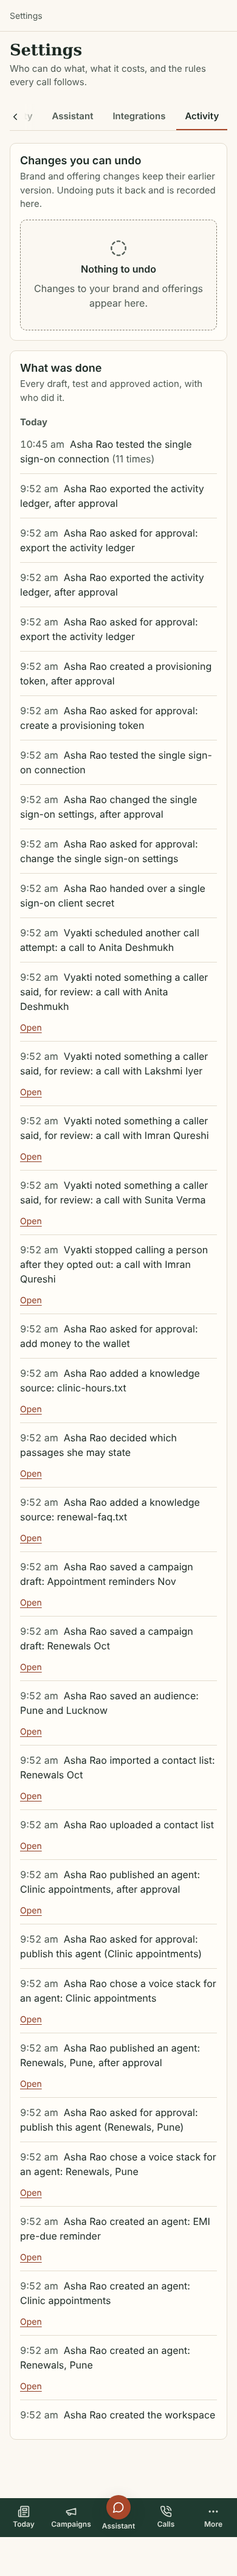
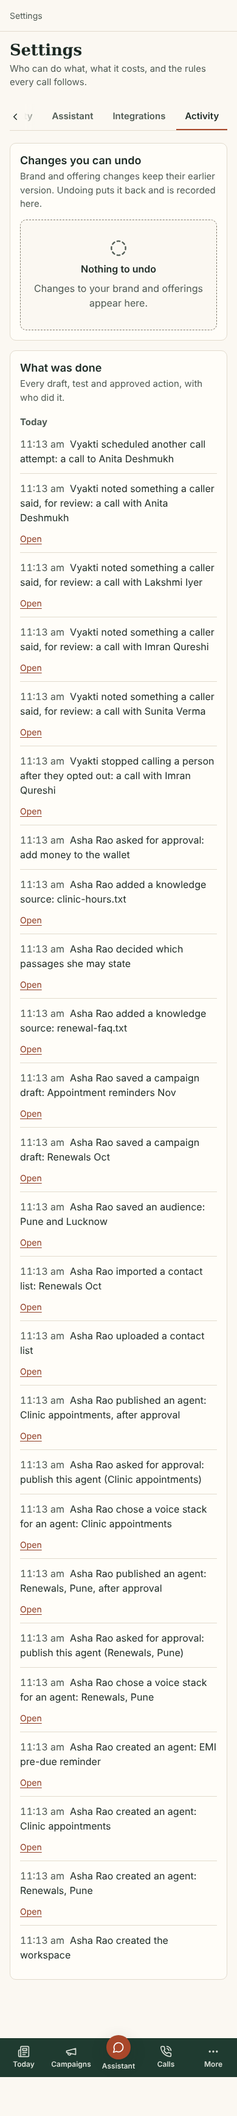
Web: one look for every disabled button (no opacity); security connection checks no longer restyle the practice-caller results; re-shot settings
- Every disabled button now uses ink-3 on surface with an outline, whatever its kind. It used to be opacity 0.55, which made a
  disabled primary (for example Security > Ask to save) read as a live, faded button, and hid the pair from contrast
  tools. The ink-3/surface pair is added to the 5:1 token test.
- The Security page's .checks rules (pages.css) overrode the practice-caller result list (.checks in app.css): an 84 px grid,
  borders, no margin. The Security list is now .conn-checks, and its flow finds it by its accessible name.
- Re-shot settings-activity, settings-billing, settings-privacy and agent-test.

Claude-Session: https://claude.ai/code/session_01XfyDzDXsfqZYjMNUzaN3Kj

diff --git a/product/tests/web.test.ts b/product/tests/web.test.ts
@@ -38,7 +38,7 @@ test('text colour pairs reach 5:1 in light and dark', () => {
   const themes = { light: css.split('@media')[0], dark: css.split('[data-theme="dark"] {')[1] };
   const pairs: [string, string][] = [['ink', 'paper'], ['ink-2', 'paper'], ['ink-3', 'paper'], ['ink-2', 'sunk'], ['ink-3', 'sunk'], ['ink', 'surface'], ['terra-ink', 'paper'], ['terra-ink', 'surface'], ['on-terra', 'terra'],
     ['leaf', 'leaf-bg'], ['brick', 'brick-bg'], ['marigold-ink', 'marigold-bg'], ['peacock', 'peacock-bg'], ['terra-ink', 'terra-bg'], ['leaf', 'paper'], ['brick', 'paper'], ['marigold-ink', 'paper'], ['peacock', 'paper'],
-    ['nav-ink', 'forest'], ['nav-ink-dim', 'forest'], ['nav-ink-dim', 'forest-2'], ['nav-ink', 'forest-2'], ['on-forest', 'forest-2'], ['on-forest', 'terra'], ['ink-2', 'terra-bg'], ['ink-2', 'leaf-bg']];
+    ['nav-ink', 'forest'], ['nav-ink-dim', 'forest'], ['nav-ink-dim', 'forest-2'], ['nav-ink', 'forest-2'], ['on-forest', 'forest-2'], ['on-forest', 'terra'], ['ink-2', 'terra-bg'], ['ink-2', 'leaf-bg'], ['ink-3', 'surface']];   // ink-3 on surface: every disabled button
   for (const [name, block] of Object.entries(themes)) {
     const v = Object.fromEntries([...block.matchAll(/--([a-z0-9-]+):\s*(#[0-9A-Fa-f]{6})/g)].map(m => [m[1], m[2]]));
     for (const [fg, bg] of pairs) {

diff --git a/product/web/src/app.css b/product/web/src/app.css
@@ -51,7 +51,9 @@ button { font: inherit; color: inherit; }
 .btn-ghost { border-color: transparent; background: transparent; }
 .btn-danger { color: var(--brick); border-color: var(--brick); }
 .btn-sm { min-height: 36px; padding: 0 12px; font-size: 0.875rem; }
-.btn[aria-disabled="true"] { opacity: 0.55; cursor: not-allowed; }
+/* Every disabled action looks the same whatever its kind: an outline in a checked token pair (no opacity, which hid the pair from
+   contrast tools and made a disabled primary read as a live, faded one), with its reason underneath. */
+.btn[aria-disabled="true"], .btn.btn-primary[aria-disabled="true"], .btn.btn-danger[aria-disabled="true"] { background: var(--surface); color: var(--ink-3); border: 1px solid var(--line-strong); opacity: 1; cursor: not-allowed; }
 .btn-reason { font-size: 0.8125rem; color: var(--ink-2); max-width: 32ch; }
 .iconbtn { display: inline-grid; place-items: center; width: 44px; height: 44px; border-radius: 6px; border: 0; background: transparent; cursor: pointer; color: var(--ink-2); }
 .iconbtn:hover { background: var(--sunk); color: var(--ink); }
